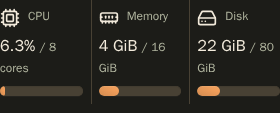
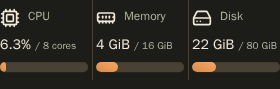
Keep overview resource readings on one line

Changed region(s): [[0.0, 0.0, 1.0, 0.9213], [0.0, 0.3371, 0.2857, 0.6517], [0.0, 0.0674, 0.2, 0.3146]]

diff --git a/web/src/pages/dashboard.css b/web/src/pages/dashboard.css
@@ -18,7 +18,7 @@
   }
 
   .overview-metrics .metric-tiles > .usage-reading-icon {
-    --resource-allocation-font-size: 12px;
+    --resource-allocation-font-size: clamp(10px, 3.6cqi, 12px);
     grid-template-columns: 20px minmax(0, 1fr);
     gap: 8px;
     padding-block: 8px;
@@ -47,13 +47,25 @@
     }
 
     & .usage-value {
-      font-size: 16px;
-      white-space: normal;
+      font-size: clamp(12px, 5cqi, 16px);
+      white-space: nowrap;
+      overflow: hidden;
+      text-overflow: ellipsis;
     }
 
     & .resource-allocation {
       margin-inline-start: 4px;
     }
+  }
+}
+
+@container overview-metrics (max-width: 20rem) {
+  .overview-metrics .metric-tiles {
+    gap: 8px;
+  }
+
+  .overview-metrics .metric-tiles > .usage-reading-icon::before {
+    inset-inline-start: -4px;
   }
 }
 
